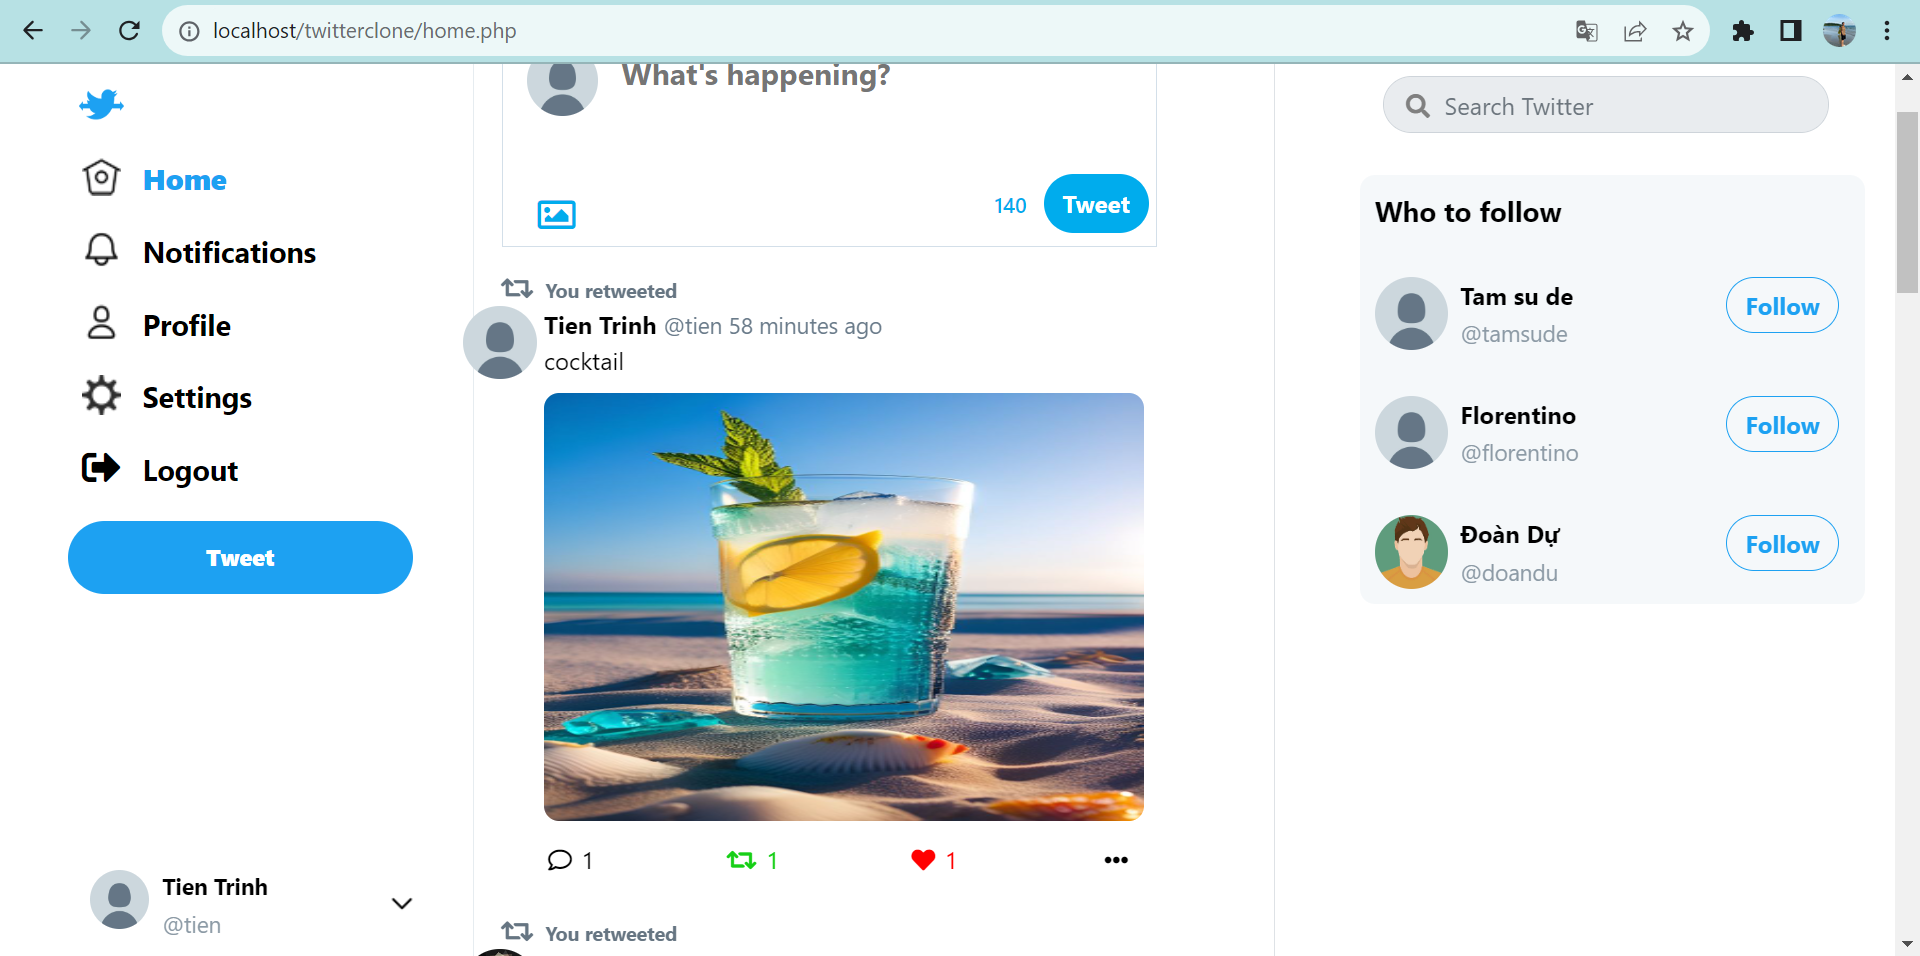
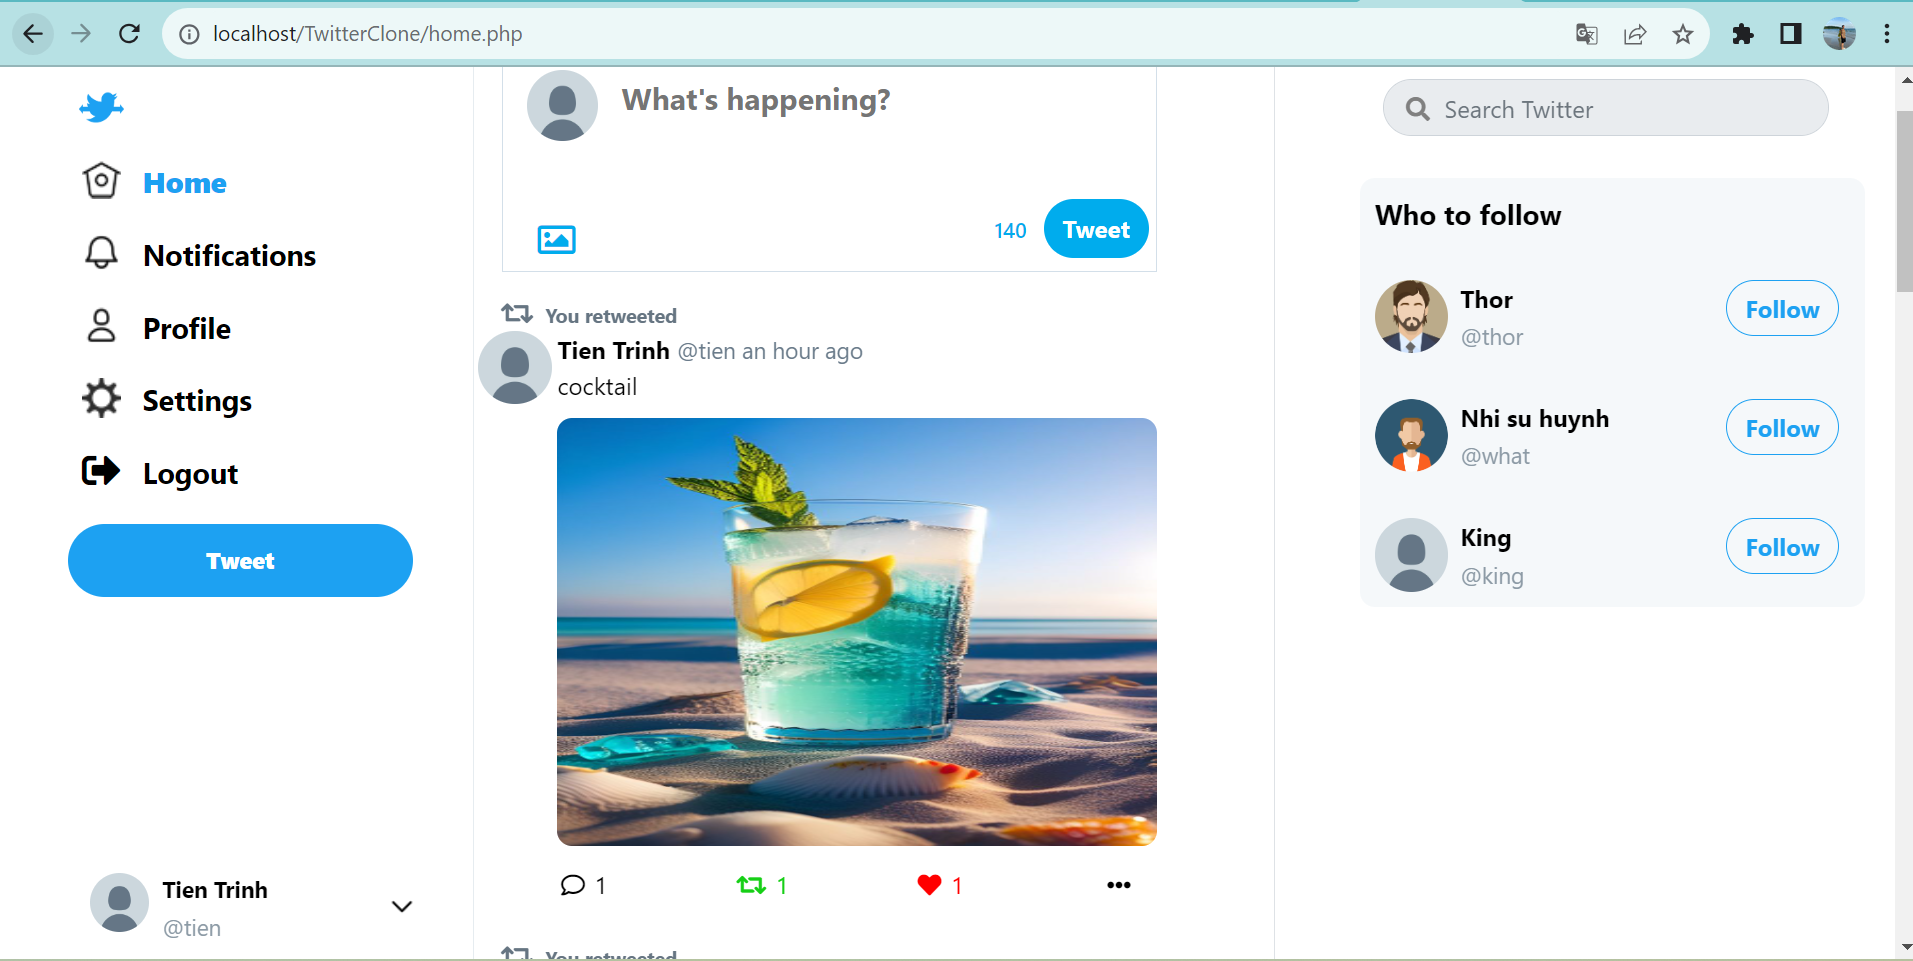
twitterclone

diff --git a/assets/css/hii.css b/assets/css/hii.css
@@ -266,7 +266,7 @@
   #mine .grid-tweet {
 	display: grid;
 	grid-template-columns: 10% 90%;
-	margin-left: 15px;
+	margin-left: 25px;
 	margin-right: 2px;
   }
   #mine .username-twitter {

diff --git a/assets/css/home_style.css b/assets/css/home_style.css
@@ -286,7 +286,7 @@
   #mine .grid-tweet {
 	display: grid;
 	grid-template-columns: 10% 90%;
-	margin-left: 15px;
+	margin-left: 25px;
 	margin-right: 2px;
   }
   #mine .username-twitter {

diff --git a/assets/css/profile_style.css b/assets/css/profile_style.css
@@ -859,7 +859,7 @@
   #mine .grid-tweet {
 	display: grid;
 	grid-template-columns: 10% 90%;
-	margin-left: 15px;
+	margin-left: 25px;
 	margin-right: 2px;
   }
   #mine .username-twitter {
